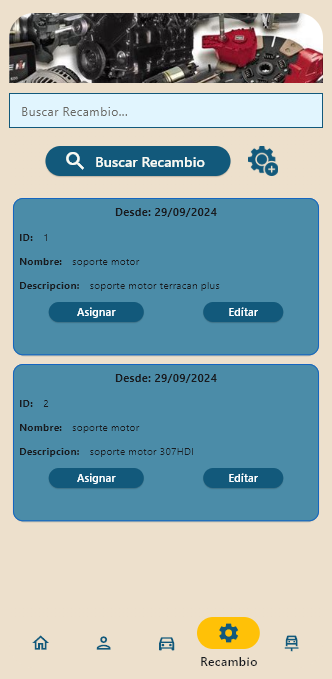
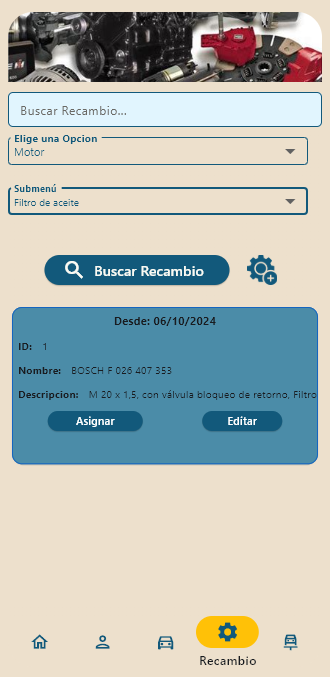
- Updated the display image in the Spare Parts view and corrected spelling errors. - Actualizada la imagen de visualización en la vista de Recambio y corrección de errores ortográficos.

diff --git a/app.py b/app.py
@@ -1043,7 +1043,7 @@ class VentanaRecambios(ft.View):
             bgcolor="#E1F5FE"
         )
 
-        # Menu desplegable principal para elegir una opcion y iconBoton para añadir un recambio a la db
+        # Menu desplegable principal para elegir una opcion
         self.menu_principal = ft.Container(
             alignment=ft.alignment.Alignment(x=0, y=0),
             content=Row(
@@ -1109,7 +1109,7 @@ class VentanaRecambios(ft.View):
             )
         )
 
-        # Menu desplegable principal para elegir una opcion y iconBoton para añadir un recambio a la db
+        # Menu desplegable secundario para elegir una opcion
         self.submenu_opciones = ft.Dropdown(
                         label='Submenú',
                         alignment = Alignment(0.0, 0.0),
@@ -1282,7 +1282,7 @@ class VentanaRecambios(ft.View):
         ]
 
 
-    # metodo para manejar la opcion seleccionada en el menu desplegable
+    # metodo para manejar la opcion seleccionada en el menu desplegable principal
     def pestaniaOpcion(self, e):
         try:
             # Crear un objeto Text para mostrar la opcion elegida
